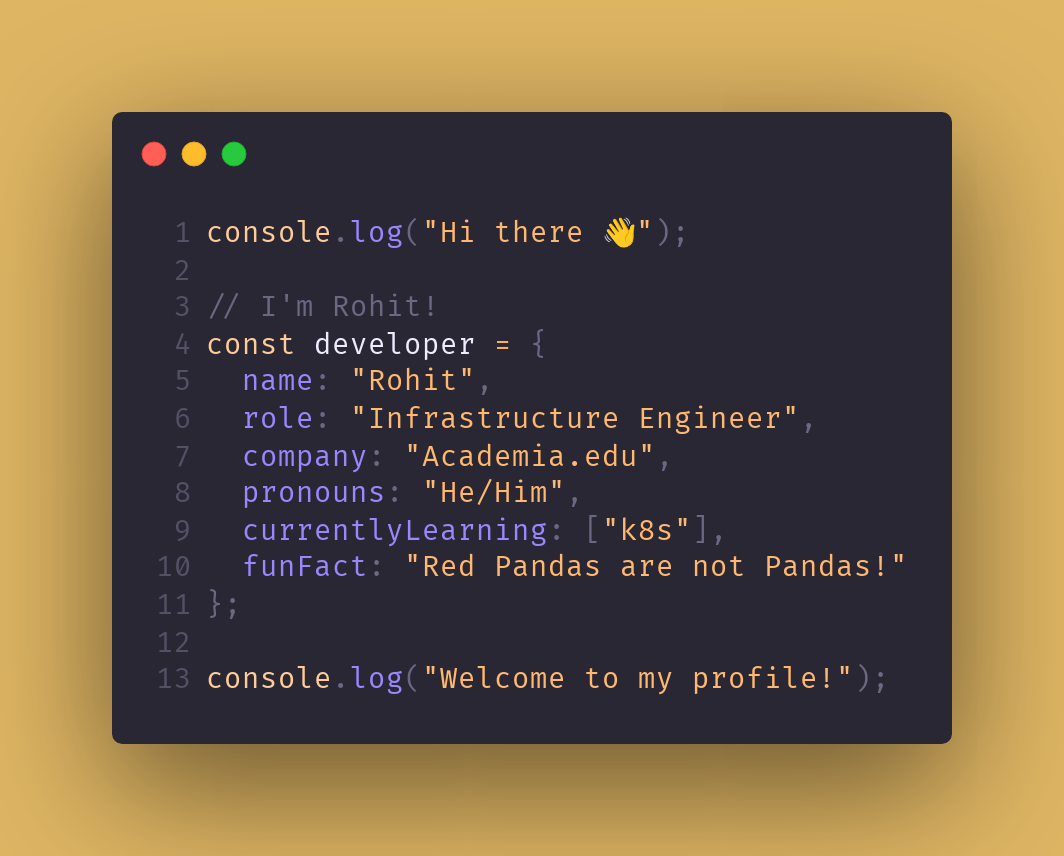
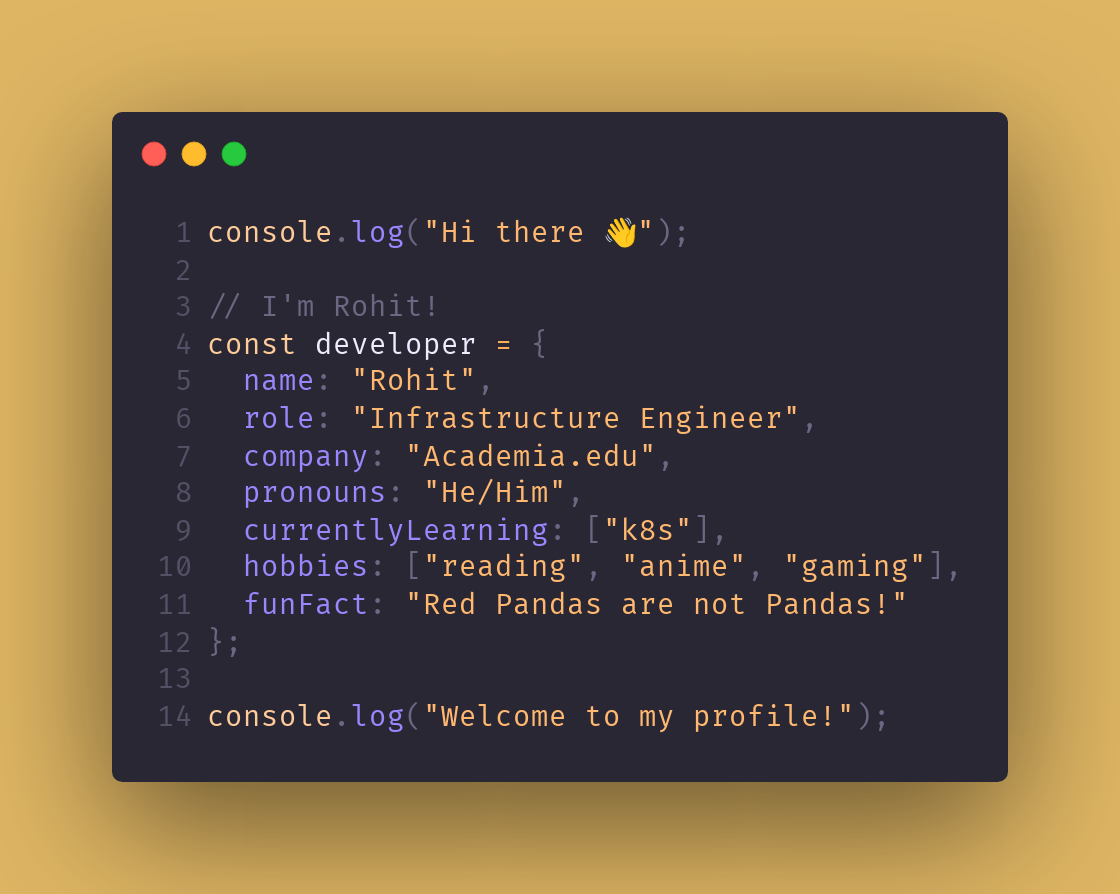
feat: add hobbies section to intro and fix Spotify widget placement
- Add hobbies array with 'reading', 'anime', 'gaming' to Carbonara intro
- Move Spotify widget from awkward side placement to below music table
- Clean up anime/manga sections by removing misplaced widget
- Better contextual flow: intro → activities → stats → music + widget
- Regenerate Carbonara image with updated developer object structure

Changed region(s): [[0.093, 0.1215, 0.8994, 0.8808], [0.1551, 0.243, 0.6203, 0.3037]]

diff --git a/.github/scripts/generate_readme.py b/.github/scripts/generate_readme.py
@@ -80,8 +80,6 @@ def generate_currently_section(anilist_data: dict) -> str:
 {reading_items.rstrip()}
 ```
 
-[![spotify-github-profile](https://spotify-github-profile.kittinanx.com/api/view?uid=infernapexavier&cover_image=true&theme=novatorem&show_offline=true&background_color=121212&interchange=false&bar_color=53b14f&bar_color_cover=true)](https://spotify-github-profile.kittinanx.com/api/view?uid=infernapexavier&redirect=true)
-
 </td>
 </tr>
 </table>
@@ -163,7 +161,13 @@ def generate_stats_section(anilist_data: dict, spotify_data: dict) -> str:
 
 | Cover | Track | Artist |
 |-------|-------|--------|
-{music_tracks.rstrip()}"""
+{music_tracks.rstrip()}
+
+<div align="center">
+
+[![spotify-github-profile](https://spotify-github-profile.kittinanx.com/api/view?uid=infernapexavier&cover_image=true&theme=novatorem&show_offline=true&background_color=121212&interchange=false&bar_color=53b14f&bar_color_cover=true)](https://spotify-github-profile.kittinanx.com/api/view?uid=infernapexavier&redirect=true)
+
+</div>"""
 
 
 def generate_readme() -> None:

diff --git a/.github/scripts/fetch_carbonara.py b/.github/scripts/fetch_carbonara.py
@@ -19,6 +19,7 @@ const developer = {
   company: "Academia.edu",
   pronouns: "He/Him",
   currentlyLearning: ["k8s"],
+  hobbies: ["reading", "anime", "gaming"],
   funFact: "Red Pandas are not Pandas!"
 };
 

diff --git a/README.md b/README.md
@@ -31,8 +31,6 @@
 • 📖 Fly Me to the Moon
 ```
 
-[![spotify-github-profile](https://spotify-github-profile.kittinanx.com/api/view?uid=infernapexavier&cover_image=true&theme=novatorem&show_offline=true&background_color=121212&interchange=false&bar_color=53b14f&bar_color_cover=true)](https://spotify-github-profile.kittinanx.com/api/view?uid=infernapexavier&redirect=true)
-
 </td>
 </tr>
 </table>
@@ -58,7 +56,7 @@
 <td align="center" width="33%">
 
 🏷 **My guilty pleasures**  
-![Slice of Life](https://img.shields.io/badge/Slice%20of%20Life-purple?style=flat-square) ![Romance](https://img.shields.io/badge/Romance-purple?style=flat-square) ![Comedy](https://img.shields.io/badge/Comedy-purple?style=flat-square) 
+![Romance](https://img.shields.io/badge/Romance-purple?style=flat-square) ![Slice of Life](https://img.shields.io/badge/Slice%20of%20Life-purple?style=flat-square) ![Comedy](https://img.shields.io/badge/Comedy-purple?style=flat-square) 
 
 </td>
 </tr>
@@ -75,3 +73,9 @@
 <img src="https://i.scdn.co/image/ab67616d0000b273f678cc7a20b3da4d95f99f06" width="40" height="40" style="border-radius: 4px;"> | **[Punkrocker (feat. Iggy Pop) - As featured in Superman](https://open.spotify.com/track/7yHRmaBkHKXKJmS1xMzicZ)** | *Teddybears, Iggy Pop*
 <img src="https://i.scdn.co/image/ab67616d0000b273eef1231340b1f14dde4816f0" width="40" height="40" style="border-radius: 4px;"> | **[Falling](https://open.spotify.com/track/5LRyR8eIg7fSlH3GsdFqEi)** | *Chris Lake, Bonobo, Alexis Roberts*
 <img src="https://i.scdn.co/image/ab67616d0000b273aa21e4d3d70419011eac3ccc" width="40" height="40" style="border-radius: 4px;"> | **[sunburn](https://open.spotify.com/track/5Q9hC6Z25FeRL9xjJIrIwQ)** | *almost monday*
+
+<div align="center">
+
+[![spotify-github-profile](https://spotify-github-profile.kittinanx.com/api/view?uid=infernapexavier&cover_image=true&theme=novatorem&show_offline=true&background_color=121212&interchange=false&bar_color=53b14f&bar_color_cover=true)](https://spotify-github-profile.kittinanx.com/api/view?uid=infernapexavier&redirect=true)
+
+</div>
